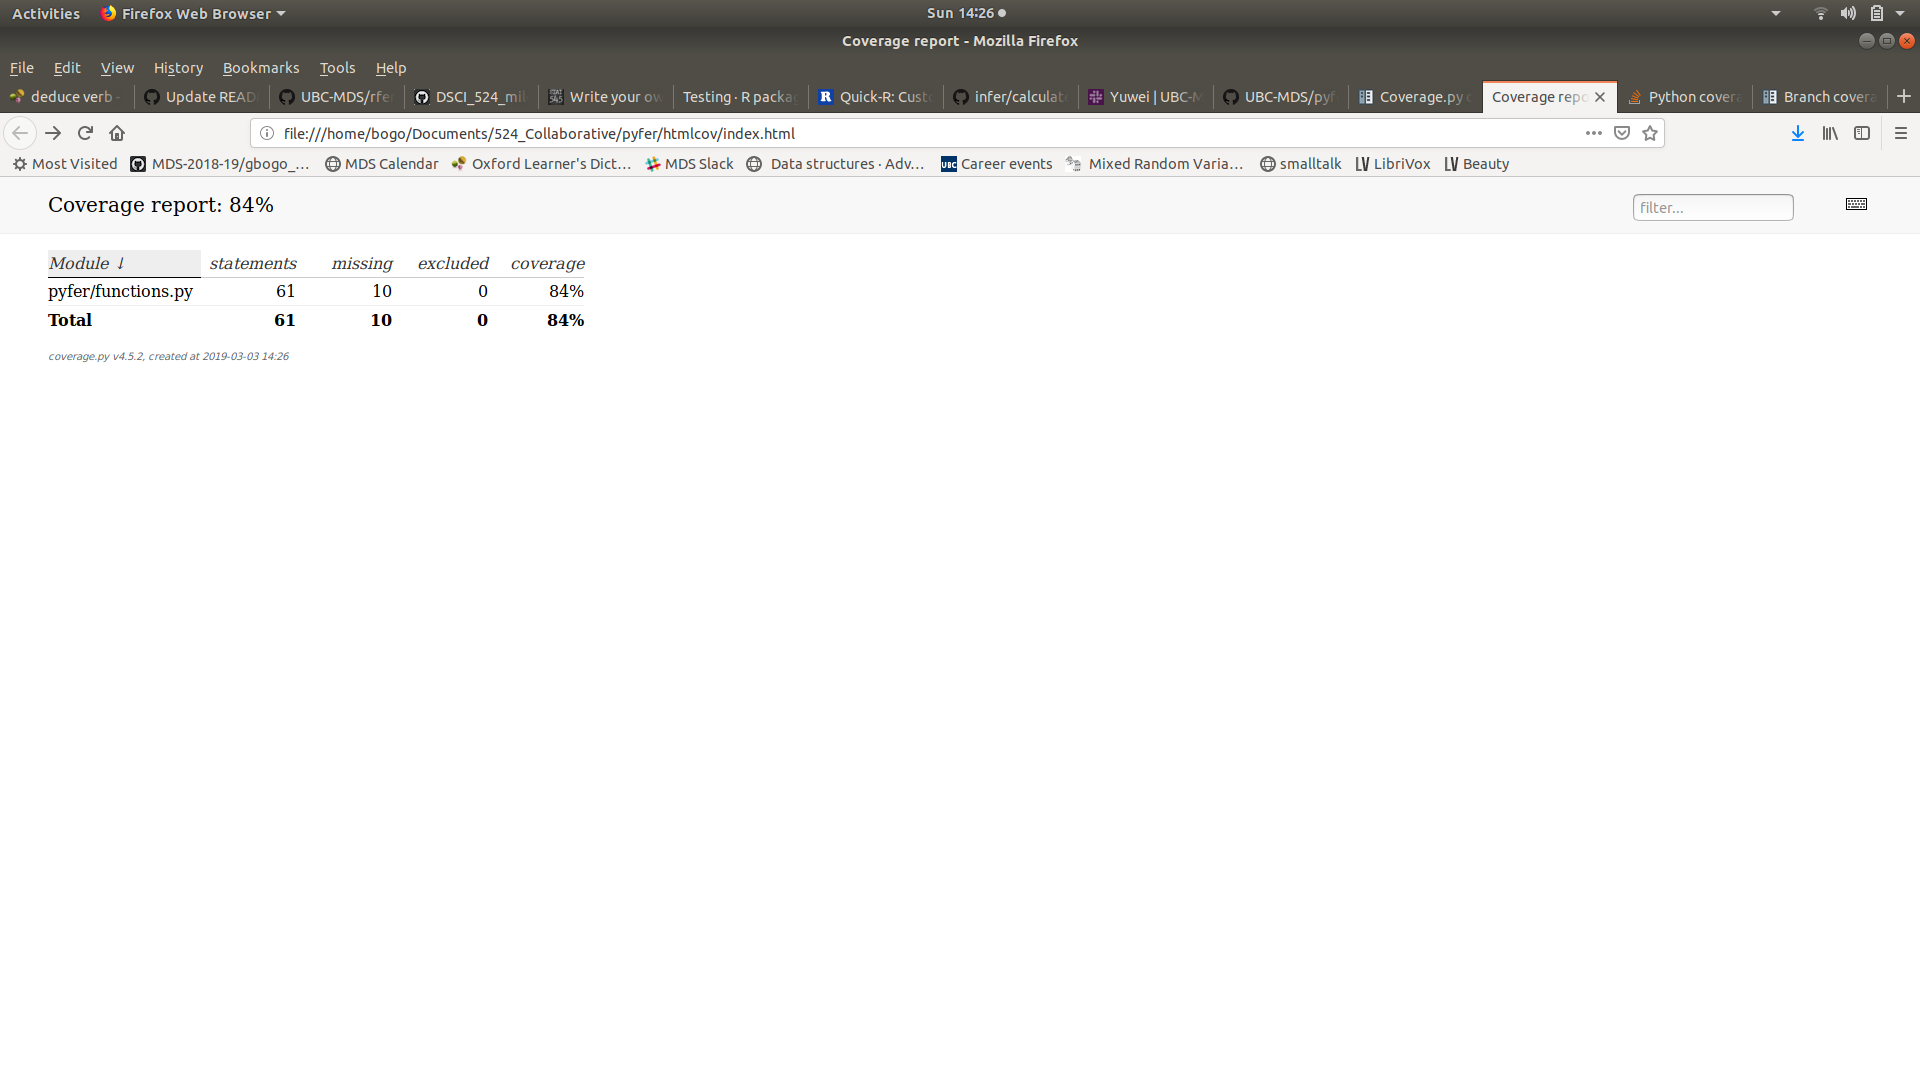
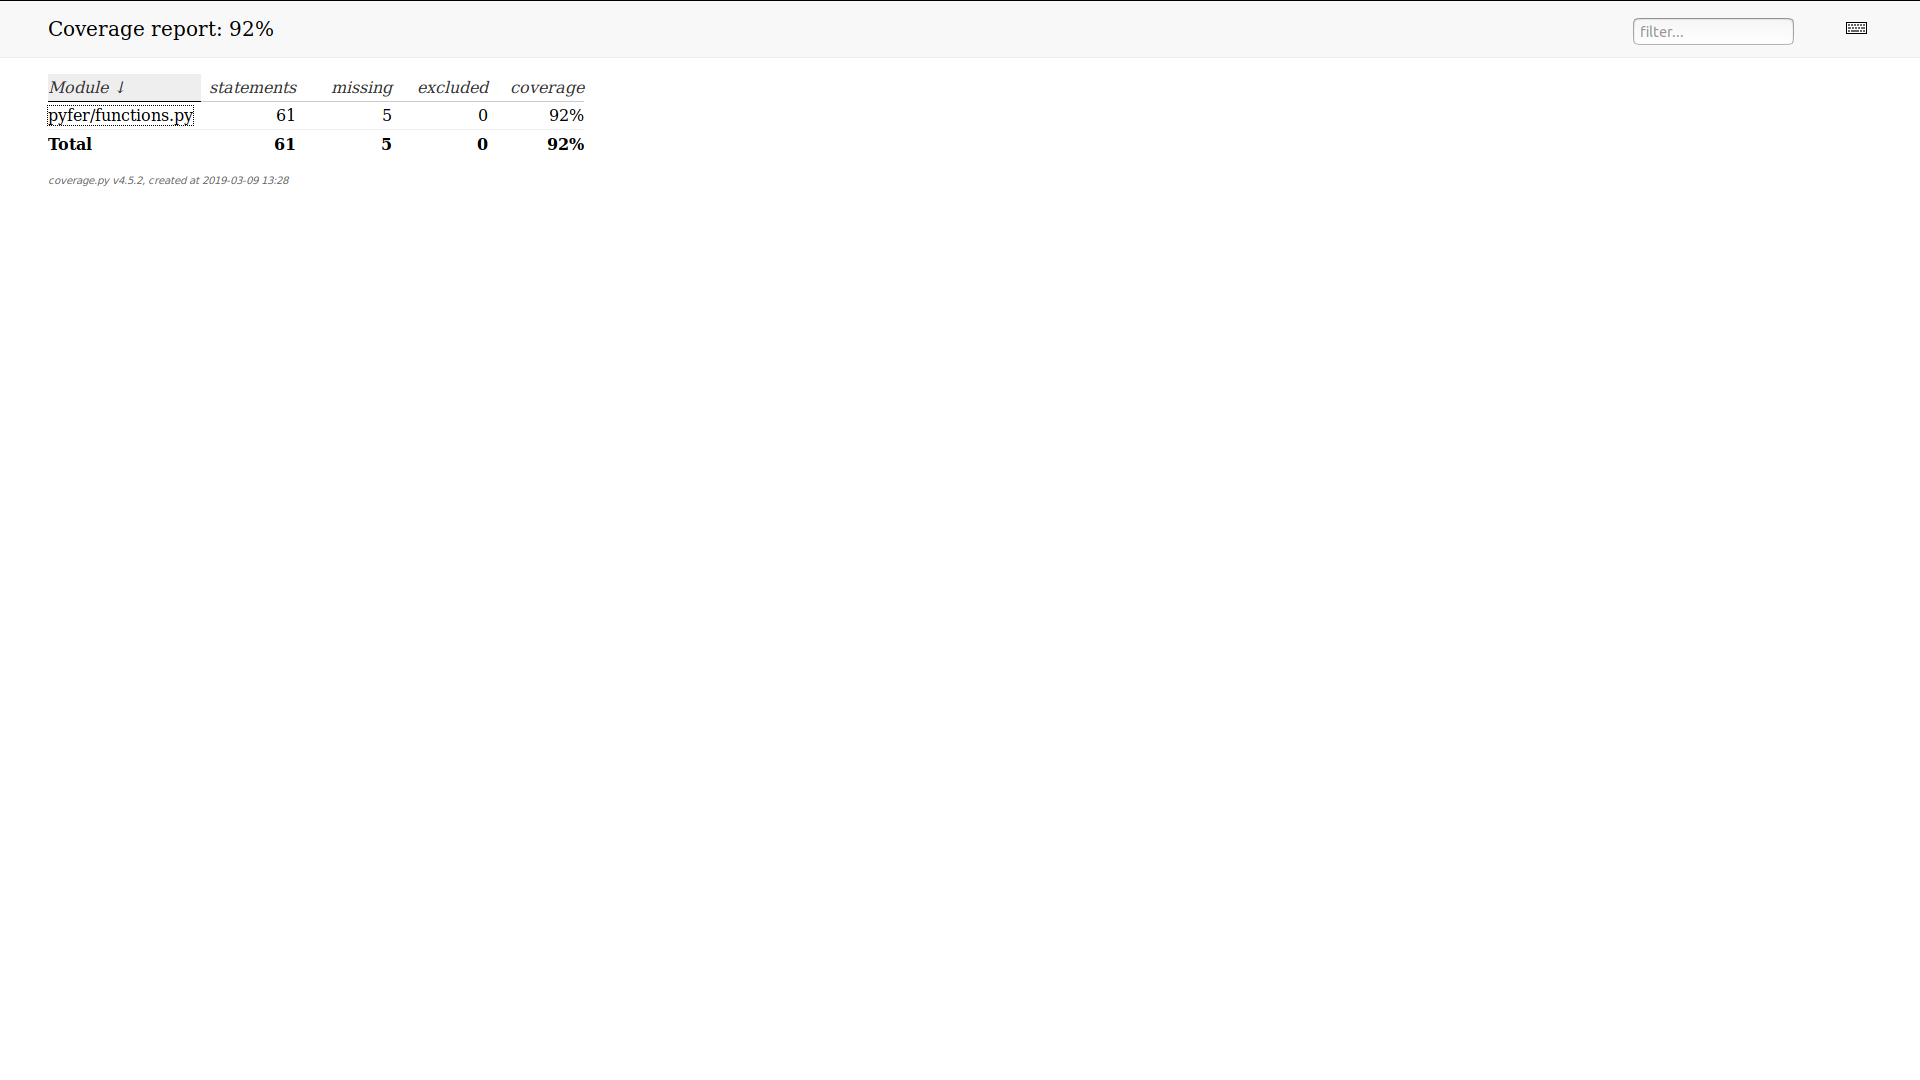
increased coverage to 92%

diff --git a/pyfer/tests/test_functions.py b/pyfer/tests/test_functions.py
@@ -40,6 +40,25 @@ class TestSpecify():
         with pytest.raises(Exception):
             df_output = specify(data=df_input, response="asdfasdf")
 
+    def test_input_not_dataframe(self):
+        '''
+        Test function raises error when input is not dataframe
+        '''
+        df_input = "some string"
+        with pytest.raises(TypeError):
+            df_output = specify(data=df_input, response="response")
+
+    def test_response_not_string(self):
+        '''
+        Test function raises error when response is not a string
+        '''
+        df_input = pd.DataFrame(columns=["response", "unused_col"],
+                                data=[[1,2],[2,3],[3,4]])
+        response = 5
+        with pytest.raises(TypeError):
+            df_output = specify(data=df_input, response=response)
+
+
 
 class TestGenerate():
     def test_shape_output(self):
@@ -132,6 +151,14 @@ class TestCalculate:
         with pytest.raises(Exception):
             df_output = calculate(data=df_input, stat="asdfasdf")
 
+    def test_input_not_dataframe(self):
+        '''
+        Test function raises error when input is not dataframe
+        '''
+        df_input = "some string"
+        with pytest.raises(TypeError):
+            df_output = calculate(data=df_input)
+
 class TestGet_ci():
 
     def test_output_is_dataframe(self):
@@ -184,6 +211,14 @@ class TestGet_ci():
                           ])
         with pytest.raises(Exception):
             df_output = get_ci(df_input, alpha=1.3)
+
+    def test_input_not_dataframe(self):
+        '''
+        Test function raises error when input is not dataframe
+        '''
+        df_input = "some string"
+        with pytest.raises(TypeError):
+            df_output = get_ci(df_input)
 
     #def test_point_estimate(self):
     #    '''

diff --git a/README.md b/README.md
@@ -43,6 +43,4 @@ mpg_ci = pyfer.get_ci(mpg_mean,level=0.9, point_estimate=None)
 
 Because of the time limit, we were not able to get a 100% branch coverage. However, we get one that is very close. Here are the links for our screenshot:
 
-[screenshot1](https://github.com/UBC-MDS/pyfer/blob/img/img/coverage.png)
-
-[screenshot2](https://github.com/UBC-MDS/pyfer/blob/img/img/coverage2.png)
+[screenshot1](img/coverage.png)
